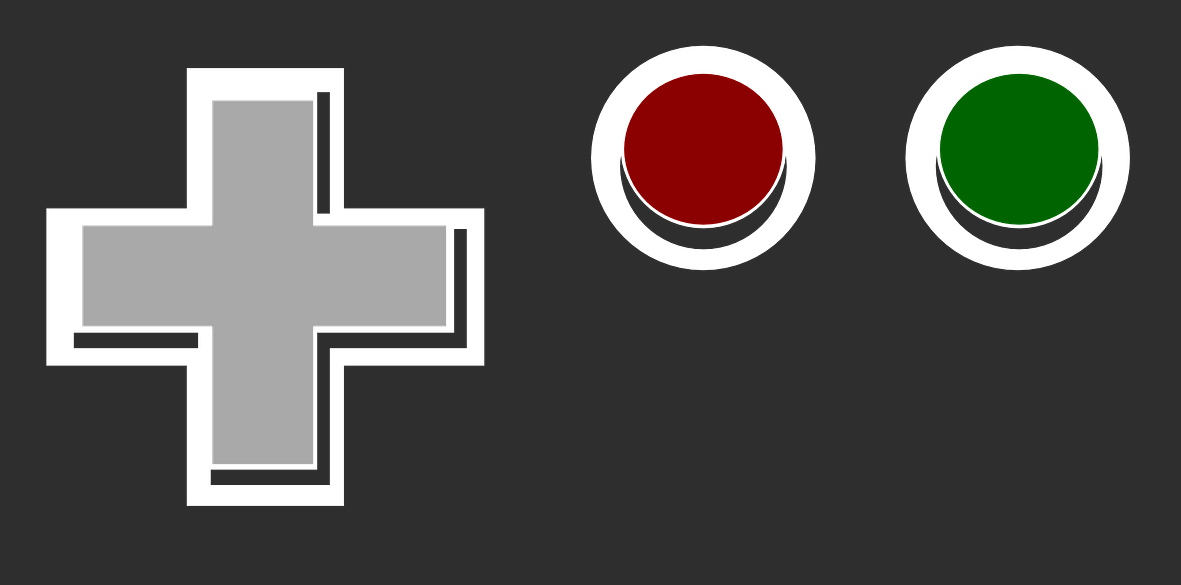
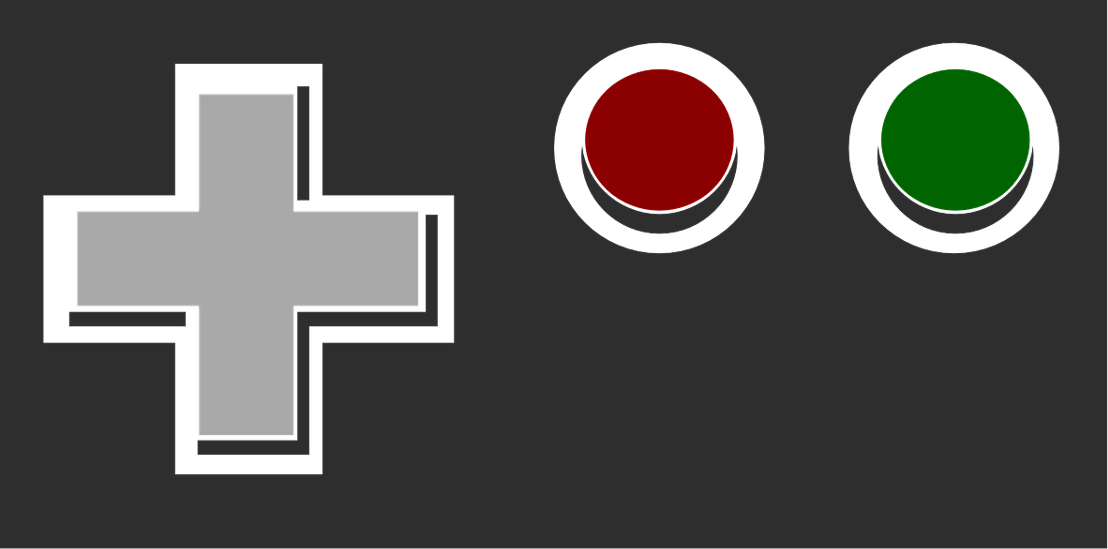
background image now set

diff --git a/public/views/search.html b/public/views/search.html
@@ -8,6 +8,7 @@
 
 <div class="container-fluid background-container">
   <div class="row search-input-row">
+    <img id="controller" src="/assets/images/controller.png" />
     <form ng-submit="api.searchAPI(api.search, api.location)">
       <div class="form-group">
         <!-- The <select> below will be used in future when I implement broader
@@ -41,10 +42,10 @@
             <span>Video</span>
           </option>
         </select> -->
-        <div class="col-md-8 col-md-offset-3 search-input-div">
-          <input class="form-control input-lg search-input" type="search" ng-model="api.search" />
+        <div class="col-md-7 col-md-offset-2 search-input-div">
+          <input class="form-control input-lg search-input" type="search" ng-model="api.search" autofocus/>
         </div>
-        <div class="col-md-1 search-button-div">
+        <div class="col-md-2 search-button-div">
           <button class="btn btn-default btn-lg search-button" type="submit">Search</button>
         </div>
     </form>

diff --git a/public/styles/main.css b/public/styles/main.css
@@ -7,20 +7,17 @@ Search
 -----------------------------------------------------------------------*/
 
 /*search input*/
-.search-input-row {
 
-}
-
-.background-container {
-  background-image: url('/assets/images/controller.png');
-  background-repeat: no-repeat;;
-  background-size: 100%;
-  min-height: 900px;
+#controller {
+  opacity: 0.7;
+  position: absolute;
+  top: 50px;
+  width: 100%;
 }
 
 .search-input {
-  border-top-right-radius: 0;
-  border-bottom-right-radius: 0;
+  border-radius: 0;
+  height: 80px;
 }
 
 .search-input-div {
@@ -31,6 +28,7 @@ Search
   border-bottom-left-radius: 0;
   border-left: none;
   border-top-left-radius: 0;
+  height: 80px;
 }
 
 .search-button-div {
